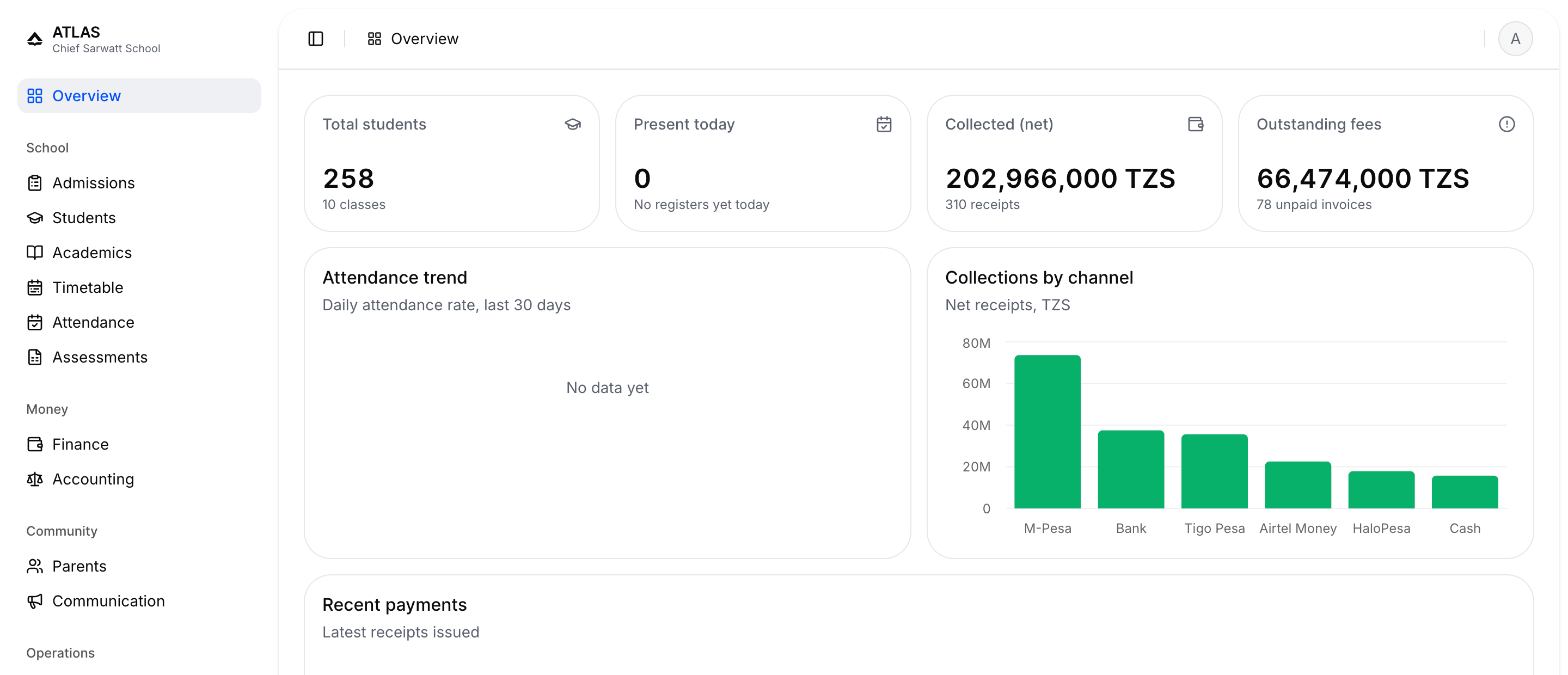
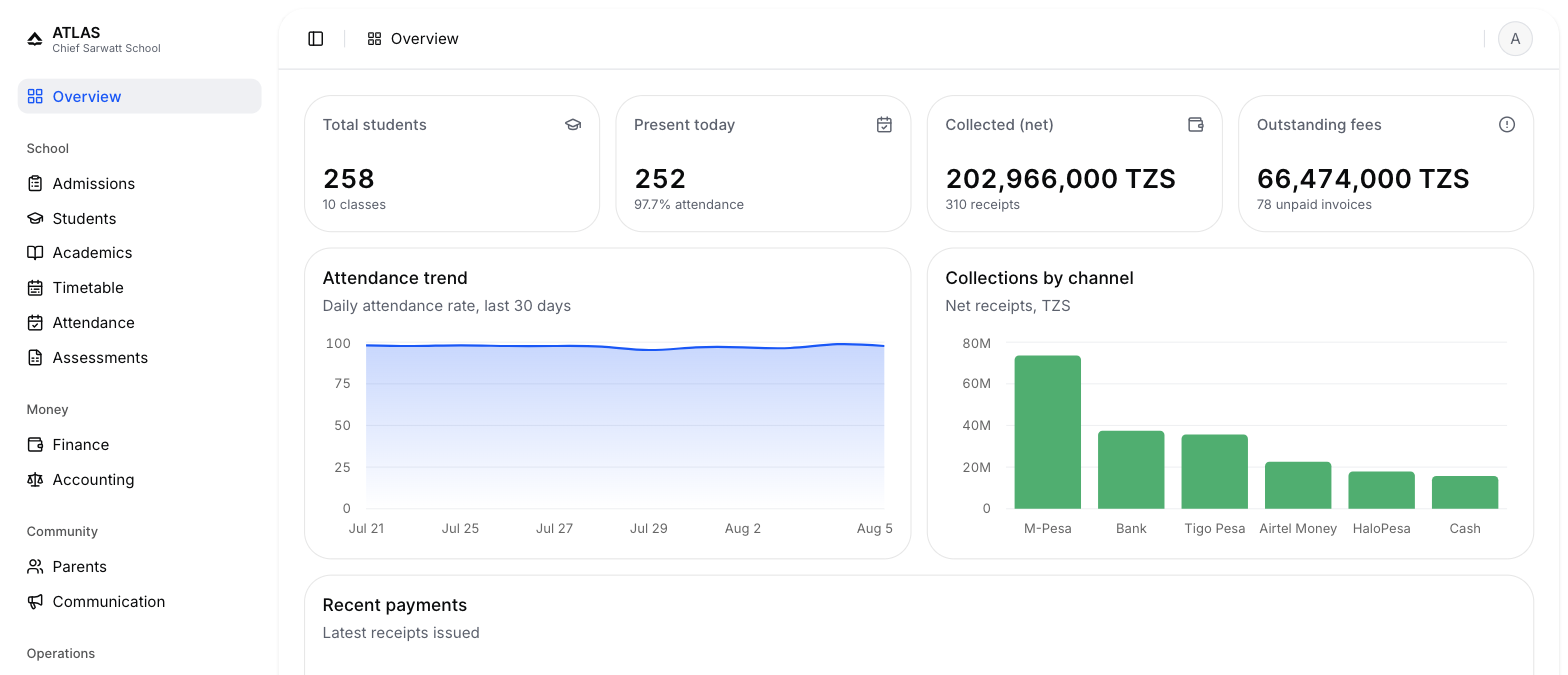
fix: CORS origin trap, dropdown a11y, self-dating demo seed; 3 real screenshots
Three issues chased to root cause rather than worked around.

1. The debtors "503" was never a product bug — it was CORS.
   resolveWebOrigin() defaults to http://localhost:3000, but the web app runs
   on 3002 (3000 and 3001 are taken). The preflight still answered 204, just
   without a matching Access-Control-Allow-Origin, so the browser never sent
   the real request — which is exactly why the API logged nothing and the page
   sat on "Loading…". Server components kept working, making it look like only
   some pages were broken. Recorded in CLAUDE.md; run the API with
   WEB_ORIGIN=http://localhost:<web port>. Verified: the preflight now returns
   Access-Control-Allow-Origin: http://localhost:3002 and debtors renders in
   full.

2. Dropdown trigger accessibility (Base UI console error).
   NavUser passed render={<Avatar/>} to DropdownMenuTrigger. Base UI renders a
   real <button> by default; the render prop replaced it with a <span>, losing
   native button semantics — keyboard activation and the implicit role a
   screen reader announces. The avatar is now nested inside the button, with
   an aria-label and a visible focus ring. It was the only offending trigger;
   the DialogTrigger render={<Button/>} sites are fine because Button renders
   a real button.

3. The demo seeder froze itself on the day it was written.
   seed-demo.mjs anchored attendance on a hardcoded new Date('2026-07-05'), so
[…]

diff --git a/apps/web/src/components/nav-user.tsx b/apps/web/src/components/nav-user.tsx
@@ -43,7 +43,20 @@ export function NavUser() {
 
 	return (
 		<DropdownMenu>
-			<DropdownMenuTrigger render={<Avatar className="size-8" />}><AvatarFallback>{initial}</AvatarFallback></DropdownMenuTrigger>
+			{/*
+			  Base UI's Trigger renders a real <button> by default. Passing
+			  render={<Avatar/>} replaced it with a <span>, which drops native
+			  button semantics — keyboard activation and the implicit role a
+			  screen reader announces. Keep the button and nest the avatar.
+			*/}
+			<DropdownMenuTrigger
+				aria-label={t("user.account")}
+				className="rounded-full focus-visible:outline-2 focus-visible:outline-offset-2 focus-visible:outline-ring"
+			>
+				<Avatar className="size-8">
+					<AvatarFallback>{initial}</AvatarFallback>
+				</Avatar>
+			</DropdownMenuTrigger>
 			<DropdownMenuContent align="end" className="w-60">
 				<DropdownMenuItem className="flex items-center justify-start gap-2">
 					<DropdownMenuLabel className="flex items-center gap-3">

diff --git a/apps/web/src/app/(marketing)/tour/page.tsx b/apps/web/src/app/(marketing)/tour/page.tsx
@@ -31,7 +31,13 @@ const STOPS = [
 		title: "Debtors, class by class",
 		body: "Every student with a balance, grouped by class. Reminders go out from the same screen, each parent getting their own child's figure.",
 		alt: "The debtors report",
-		needs: "/finance/debtors as a bursar",
+		src: "/screenshots/debtors.png",
+	},
+	{
+		title: "Every student, in one list",
+		body: "Admission numbers, class, guardian and status — searchable, and the place a report card is generated from.",
+		alt: "The student register",
+		src: "/screenshots/students.png",
 	},
 	{
 		title: "An invoice and its payments",

diff --git a/apps/web/src/app/(marketing)/page.tsx b/apps/web/src/app/(marketing)/page.tsx
@@ -305,9 +305,9 @@ export default function LandingPage() {
 						<AppWindow
 							alt="The debtors report, class by class"
 							caption="Debtors, class by class — and one button to remind them all."
-							height={1200}
-							needs="/finance/debtors as a bursar"
-							width={1900}
+							height={675}
+							src="/screenshots/debtors.png"
+							width={1568}
 						/>
 					</div>
 				</div>

diff --git a/apps/web/src/app/(marketing)/_components/role-switcher.tsx b/apps/web/src/app/(marketing)/_components/role-switcher.tsx
@@ -12,7 +12,7 @@ const SHOTS: Record<string, { alt: string; needs?: string; src?: string }> = {
 	},
 	Accountant: {
 		alt: "The debtors report, class by class",
-		needs: "/finance/debtors as a bursar",
+		src: "/screenshots/debtors.png",
 	},
 	Teacher: {
 		alt: "Marking attendance for a class",

diff --git a/CLAUDE.md b/CLAUDE.md
@@ -256,6 +256,14 @@ onboarding limit because it asserts 429. Follow `docs/ATLAS_TESTING_GUIDE.md`.
   to `0XXXXXXXXX`.
 - Next 16 uses `src/proxy.ts` (named `proxy` export), not `middleware.ts`;
   web env lives in `apps/web/.env.local`.
+- **Client-side API calls need `WEB_ORIGIN` to match the web port.**
+  `resolveWebOrigin()` (apps/api/src/config.ts) defaults to
+  `http://localhost:3000`, so running web on 3001/3002 fails the CORS
+  allowlist. The preflight still answers 204 but without a matching
+  `Access-Control-Allow-Origin`, so the browser never sends the real request —
+  the API logs NOTHING and the page just sits on "Loading…". Server components
+  keep working, which makes it look like only some pages are broken. Start the
+  API with `WEB_ORIGIN=http://localhost:<web port>`.
 - macOS has no `timeout`; the dev DB direct host doesn't resolve — use the
   session pooler (`DATABASE_URL`); psql/pg_dump live under
   `/usr/local/opt/postgresql@17/bin`.
